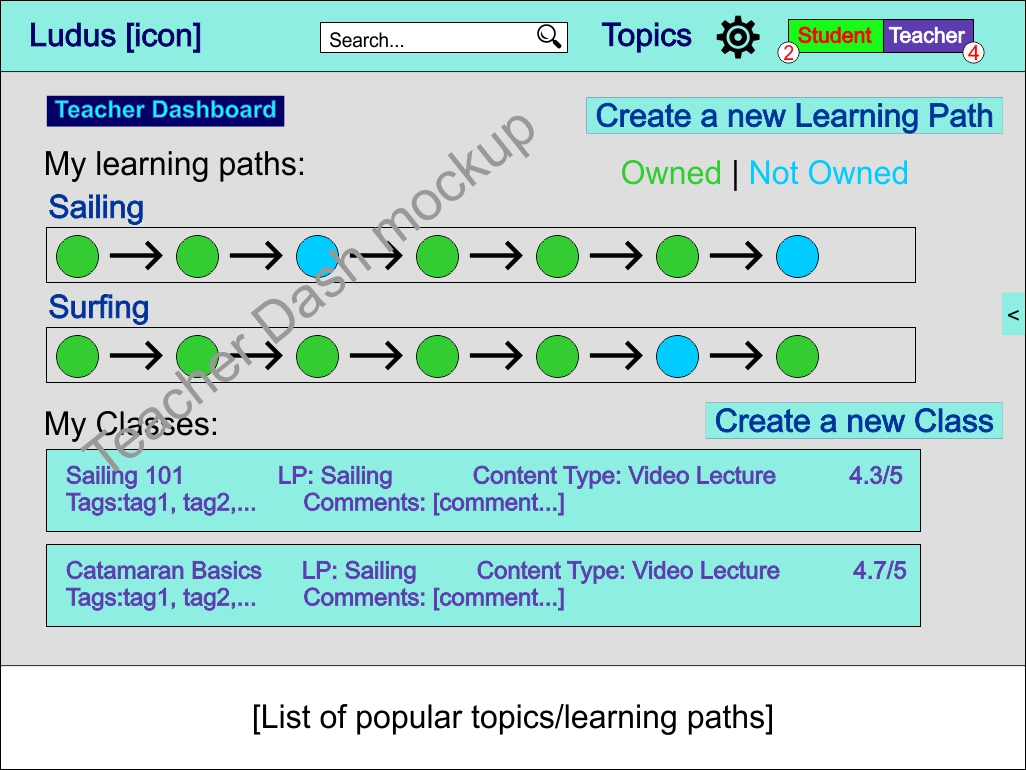
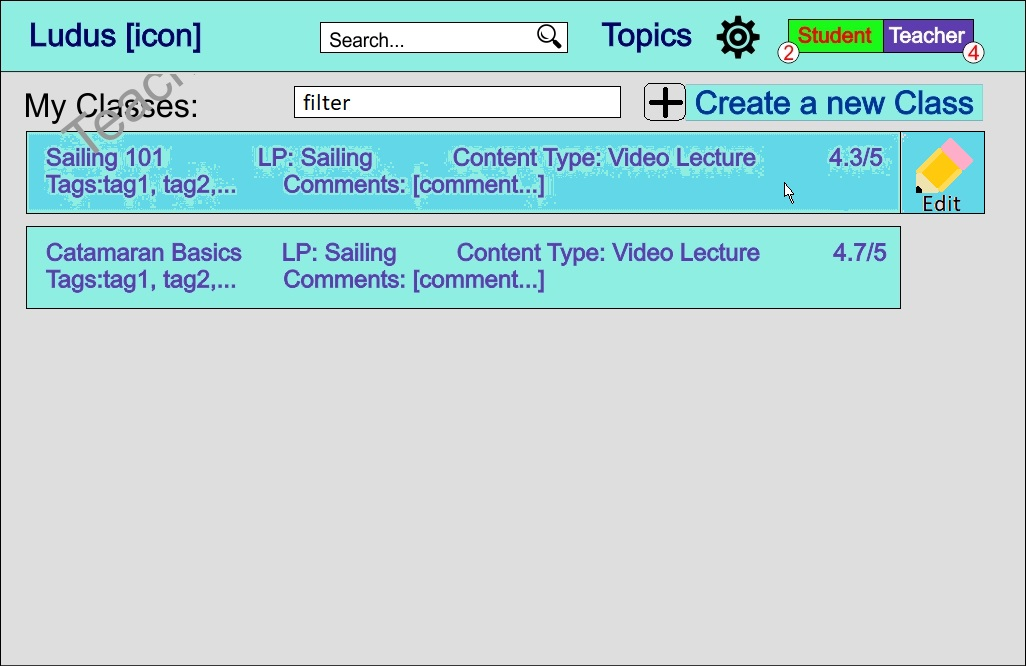
Preliminary stuff

diff --git a/frontend/src/components/Class.jsx b/frontend/src/components/Class.jsx
@@ -1,0 +1,31 @@
+import React, { Component } from 'react';
+
+class Class extends Component {
+    state = { 
+        ClassName: 0,
+        LearningPath: 0,
+        ContentType: 0,
+        Tags: 0,
+        Rating: 0
+    };
+
+    render(ClassID) { 
+        this.fetchData(ClassID);
+        return (
+            <div>
+                <span>{this.state.ClassName}</span>
+                <span>{this.state.LearningPath}</span>
+                <span>{this.state.ContentType}</span>
+                <span>{this.state.Tags}</span>
+                <button>Edit</button>
+            </div>
+        );
+    }
+
+    fetchData(ClassID) {
+        //TODO when API
+    }
+
+}
+ 
+export default Class;

diff --git a/frontend/src/components/Nav.jsx b/frontend/src/components/Nav.jsx
@@ -2,13 +2,13 @@ import React, { Component } from 'react';
 import logo from './logo.svg';
 import './App.css';
 
-class App extends Component {
+class Nav extends Component {
   render() {
     return (
       <div className="App">
         <header className="App-header">
           <img src={logo} className="App-logo" alt="logo" />
-          <h1 className="App-title">Boi</h1>
+          <h1 className="App-title">Welcome to React</h1>
         </header>
         <p className="App-intro">
           To get started, edit <code>src/App.js</code> and save to reload.

diff --git a/frontend/src/index.js b/frontend/src/index.js
@@ -3,6 +3,7 @@ import ReactDOM from 'react-dom';
 import './index.css';
 import App from './App';
 import registerServiceWorker from './registerServiceWorker';
+import Class from './components/Class';
 
 ReactDOM.render(<App />, document.getElementById('root'));
 registerServiceWorker();

diff --git a/frontend/src/components/Classlist.jsx b/frontend/src/components/Classlist.jsx
@@ -2,7 +2,7 @@ import React, { Component } from 'react';
 import logo from './logo.svg';
 import './App.css';
 
-class App extends Component {
+class Classlist extends Component {
   render() {
     return (
       <div className="App">
